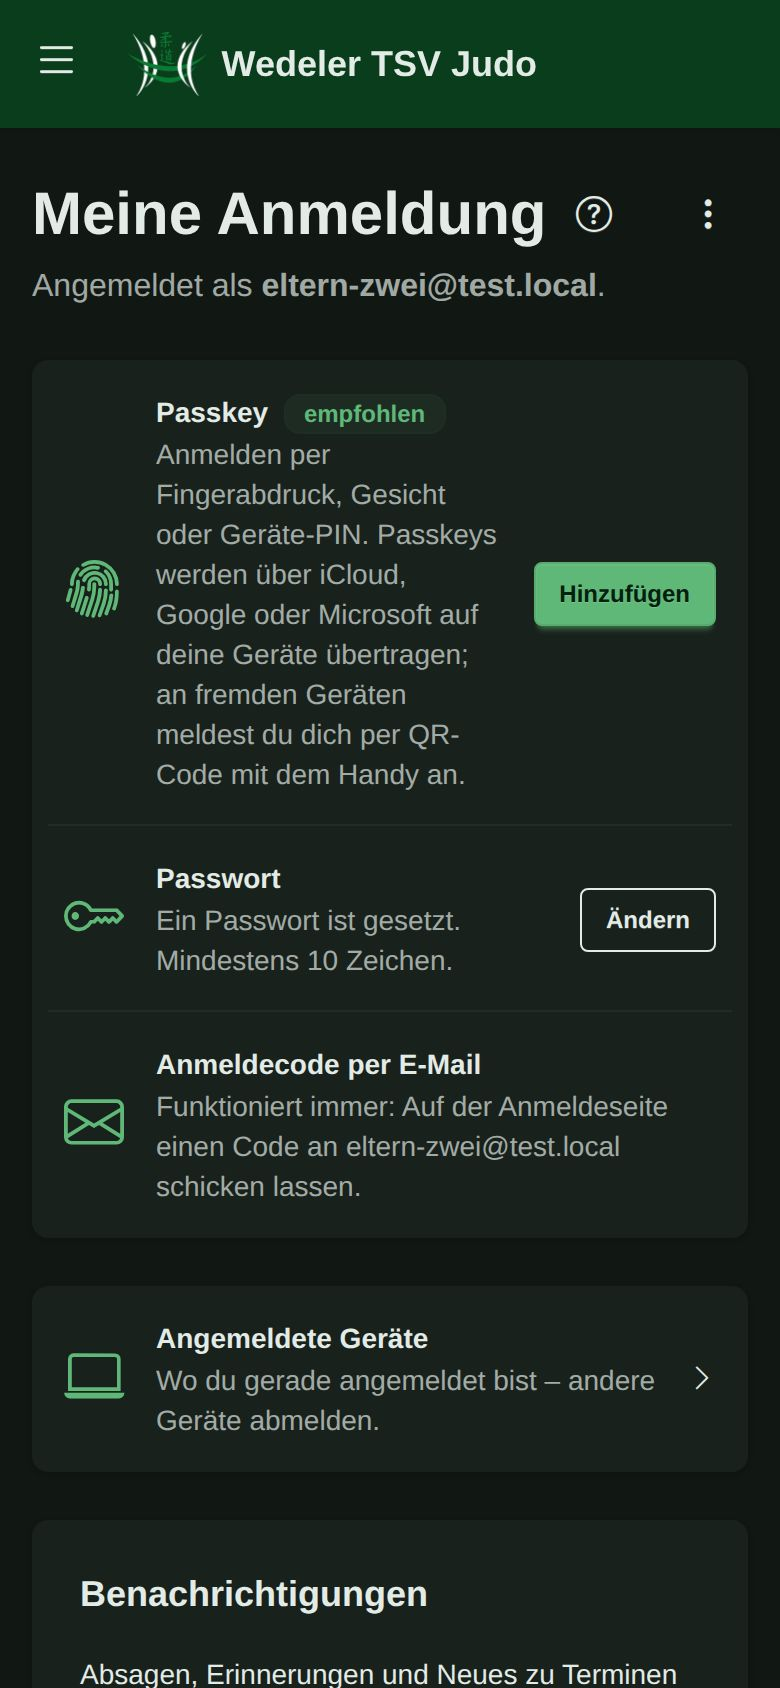
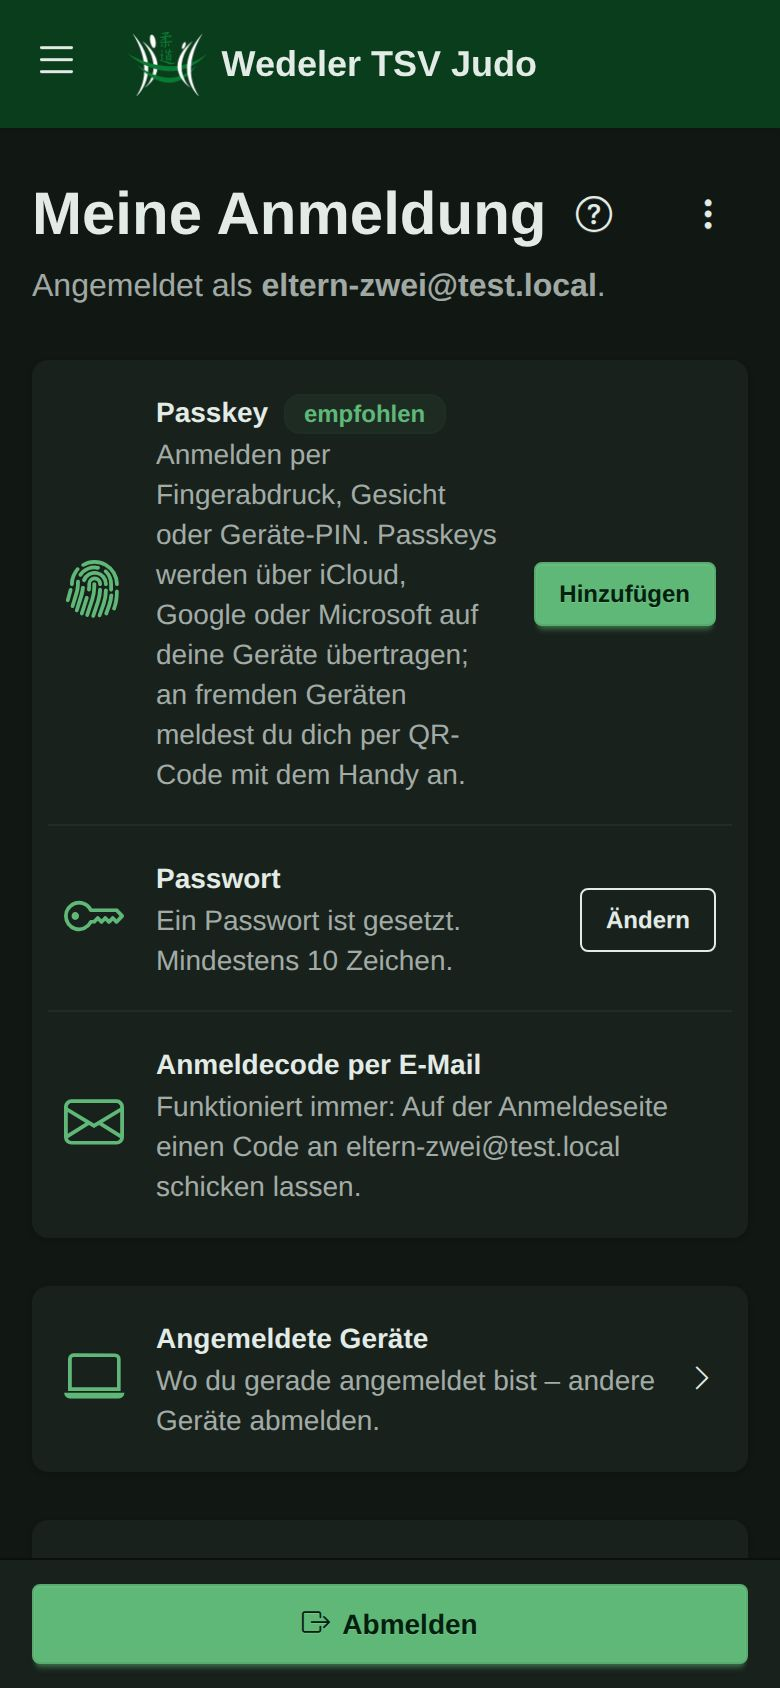
feat: Abmelden ist Hauptaktion auf „Meine Anmeldung“
Abmelden steht jetzt im Seitenkopf (am Handy unten) statt im Menü „Weitere
Aktionen“.

Claude-Session: https://claude.ai/code/session_017LHgXea5AxfRcr57bsDwjB

Changed region(s): [[0.0308, 0.9242, 0.9846, 1.0]]

diff --git a/portal/templates/accounts/security.html b/portal/templates/accounts/security.html
@@ -3,8 +3,8 @@
 {% block title %}Meine Anmeldung{% endblock %}
 {% block heading %}Meine Anmeldung{% endblock %}
 {% block heading_extra %}{% help_link "zugang" %}{% endblock %}
+{% block primary %}<button type="submit" form="abmelden" class="btn btn-primary"><i class="bi bi-box-arrow-right" aria-hidden="true"></i> Abmelden</button>{% endblock %}
 {% block more %}
-<li><button type="submit" form="abmelden"><i class="bi bi-box-arrow-right" aria-hidden="true"></i> Abmelden</button></li>
 <li><a href="{% url 'my_privacy' %}"><i class="bi bi-shield-check" aria-hidden="true"></i> Datenauskunft (Art. 15 DSGVO)</a></li>
 <li><a class="text-error" href="{% url 'own_access_delete' %}"><i class="bi bi-person-x" aria-hidden="true"></i> Meinen Zugang löschen</a></li>
 {% endblock %}

diff --git a/portal/help/templates/help/chapters/zugang.html b/portal/help/templates/help/chapters/zugang.html
@@ -21,6 +21,6 @@
 
 <h2 id="abmelden">Abmelden und Zugang löschen</h2>
 <ul>
-  <li><strong>Abmelden</strong> über <strong><i class="bi bi-three-dots-vertical" aria-hidden="true"></i> Weitere Aktionen</strong> beendet die Sitzung auf diesem Gerät.</li>
+  <li><strong>Abmelden</strong> oben rechts (am Handy unten) beendet die Sitzung auf diesem Gerät.</li>
   <li><strong>Meinen Zugang löschen</strong> (ebenfalls unter <strong><i class="bi bi-three-dots-vertical" aria-hidden="true"></i> Weitere Aktionen</strong>) entfernt deinen Benutzer mit allen Anmeldewegen, z. B. wenn dein Kind volljährig ist und einen eigenen Zugang hat. Die Mitglieder bleiben im Verein; die Abteilungsleitung kann dich später neu einladen.</li>
 </ul>

diff --git a/e2e/helpers.ts b/e2e/helpers.ts
@@ -50,9 +50,9 @@ export async function loginWithPassword(page: Page, email: string, password: str
 }
 
 export async function logout(page: Page) {
-  // Abmelden steht auf „Meine Anmeldung“ im Menü „Weitere Aktionen“
+  // Abmelden ist die Hauptaktion auf „Meine Anmeldung“
   await page.goto("/zugang/anmeldung/");
-  await moreAction(page, "button", "Abmelden");
+  await page.getByRole("button", { name: "Abmelden", exact: true }).click();
   await expect(page.getByRole("button", { name: "Mit Passkey anmelden" })).toBeVisible();
   // Erst wenn alle Skripte geladen sind, hängt der Passkey-Button an der Anmeldung per WebAuthn
   await page.waitForLoadState("networkidle");
